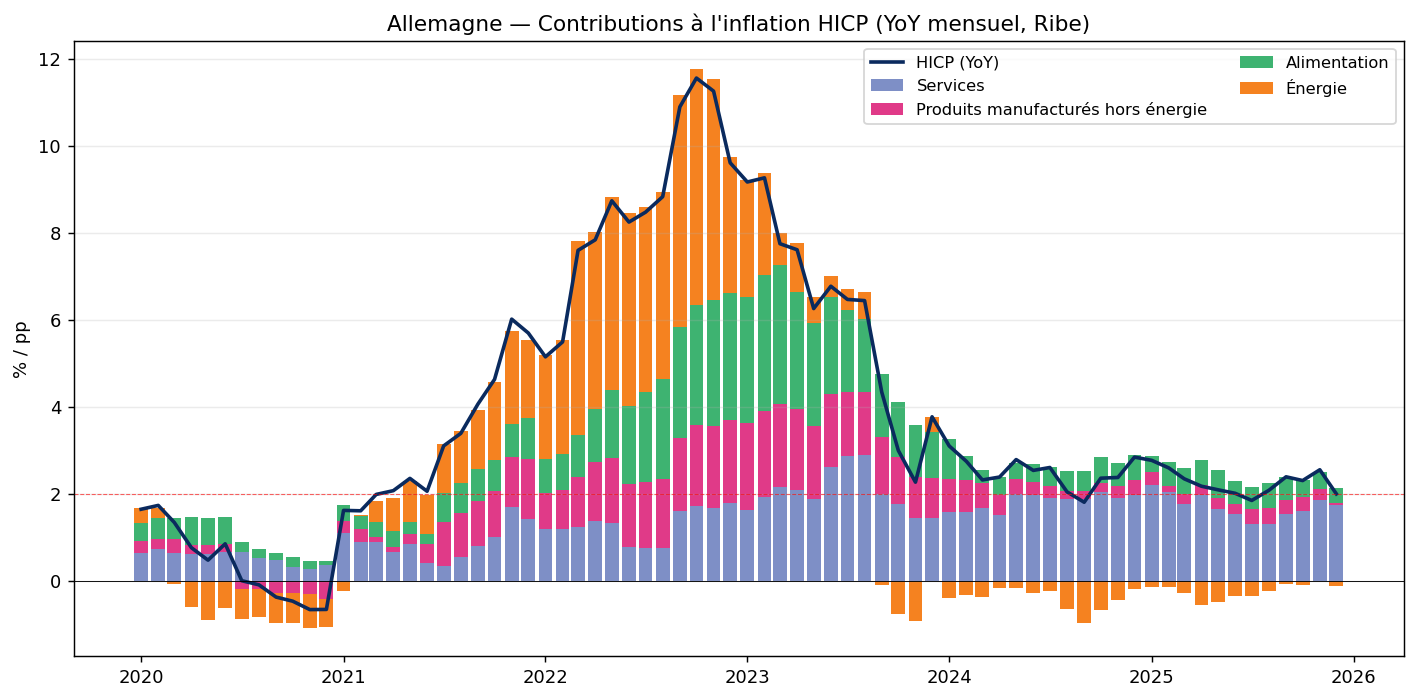
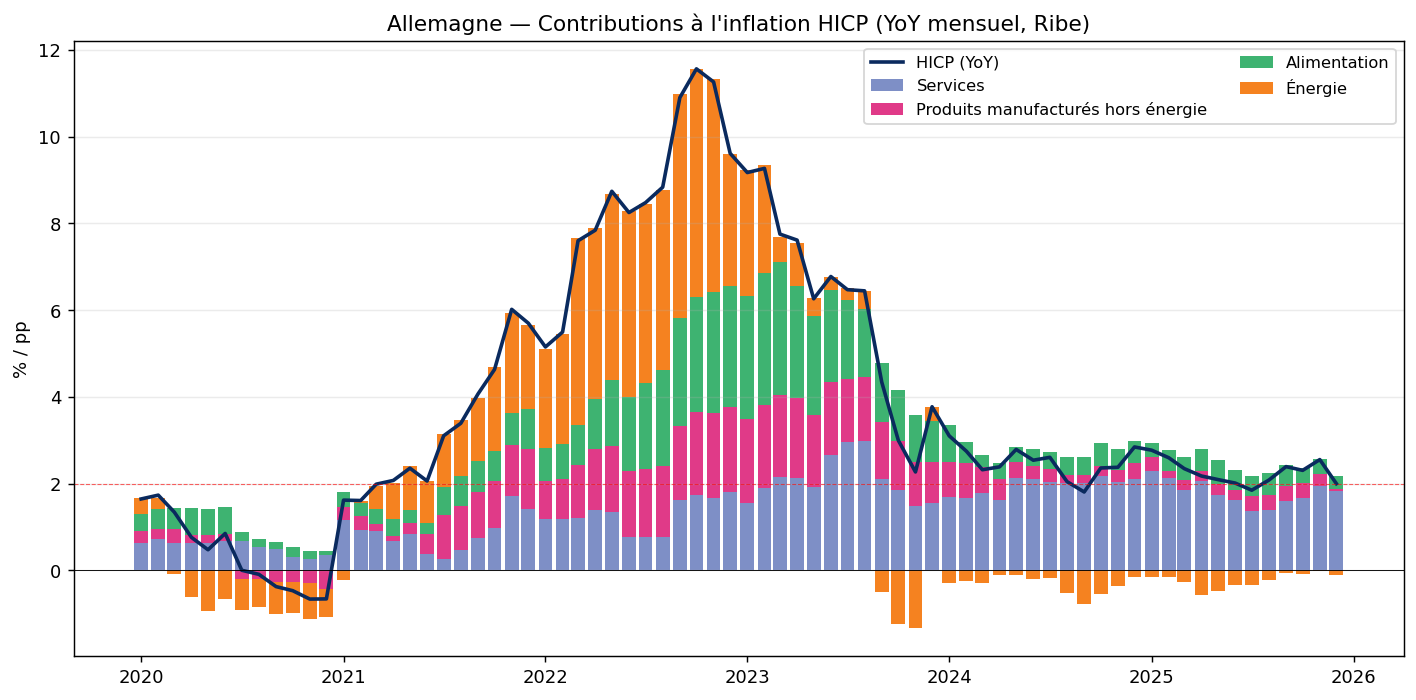
Use exact Ribe (1999) decomposition: Σ contributions = YoY exactly

diff --git a/plot_contributions.py b/plot_contributions.py
@@ -29,10 +29,18 @@ COMPONENTS = [
 
 def ribe_contributions(geo: str) -> pd.DataFrame:
     """
-    Contributions à la YoY HICP — formule BCE/Eurostat standard.
-        C_i_t = (w_i_y / 1000) * (I_i_t - I_i_t-12) / I_tot_t-12 * 100
-    Σ contributions ≈ YoY officielle (résidu négligeable lié à la rupture de
-    chaînage de janvier, < 0.1 pp en pratique).
+    Contributions à la YoY HICP — formule de Ribe (1999) exacte.
+
+    La fenêtre 12 mois est scindée en deux sous-périodes :
+      • de t-12 à Dec(y-1)  → poids de l'année y-1
+      • de Dec(y-1) à t     → poids de l'année y
+
+    C^i_t = [I_tot_Dec(y-1) / I_tot_t-12] · (w^i_y / 1000)
+            · (I^i_t - I^i_Dec(y-1)) / I^i_Dec(y-1) · 100
+          + [I_tot_Dec(y-2) / I_tot_t-12] · (w^i_(y-1) / 1000)
+            · (I^i_Dec(y-1) - I^i_t-12) / I^i_Dec(y-2) · 100
+
+    Propriété : Σ_i C^i_t = π_t exactement (identité Laspeyres).
     """
     sub = idx[idx["geo"] == geo]
     w = wts[wts["geo"] == geo]
@@ -43,21 +51,32 @@ def ribe_contributions(geo: str) -> pd.DataFrame:
     out = {}
     for t in wide.index:
         t_prev = t - pd.DateOffset(years=1)
-        y = t.year
-        if t_prev not in wide.index or y not in w_wide.index:
+        y, y_prev = t.year, t.year - 1
+        dec_y1 = pd.Timestamp(year=y - 1, month=12, day=1)
+        dec_y2 = pd.Timestamp(year=y - 2, month=12, day=1)
+        if any(d not in wide.index for d in [t_prev, dec_y1, dec_y2]):
+            continue
+        if y not in w_wide.index or y_prev not in w_wide.index:
             continue
         if any(c not in w_wide.columns for c in cols):
             continue
         w_y = w_wide.loc[y, cols] / 1000.0
-        if w_y.isna().any():
+        w_y1 = w_wide.loc[y_prev, cols] / 1000.0
+        if w_y.isna().any() or w_y1.isna().any():
             continue
         I_t = wide.loc[t, cols]
         I_tm12 = wide.loc[t_prev, cols]
-        if I_t.isna().any() or I_tm12.isna().any():
+        I_dy1 = wide.loc[dec_y1, cols]
+        I_dy2 = wide.loc[dec_y2, cols]
+        if any(x.isna().any() for x in [I_t, I_tm12, I_dy1, I_dy2]):
             continue
         I_tot_tm12 = wide.loc[t_prev, "CP00"]
-        contrib = w_y * (I_t - I_tm12) / I_tot_tm12 * 100.0
-        out[t] = contrib
+        I_tot_dy1 = wide.loc[dec_y1, "CP00"]
+        I_tot_dy2 = wide.loc[dec_y2, "CP00"]
+
+        term1 = (I_tot_dy1 / I_tot_tm12) * w_y * (I_t - I_dy1) / I_dy1
+        term2 = (I_tot_dy2 / I_tot_tm12) * w_y1 * (I_dy1 - I_tm12) / I_dy2
+        out[t] = (term1 + term2) * 100.0
     df = pd.DataFrame(out).T.sort_index()
     df.index.name = "date"
     return df
